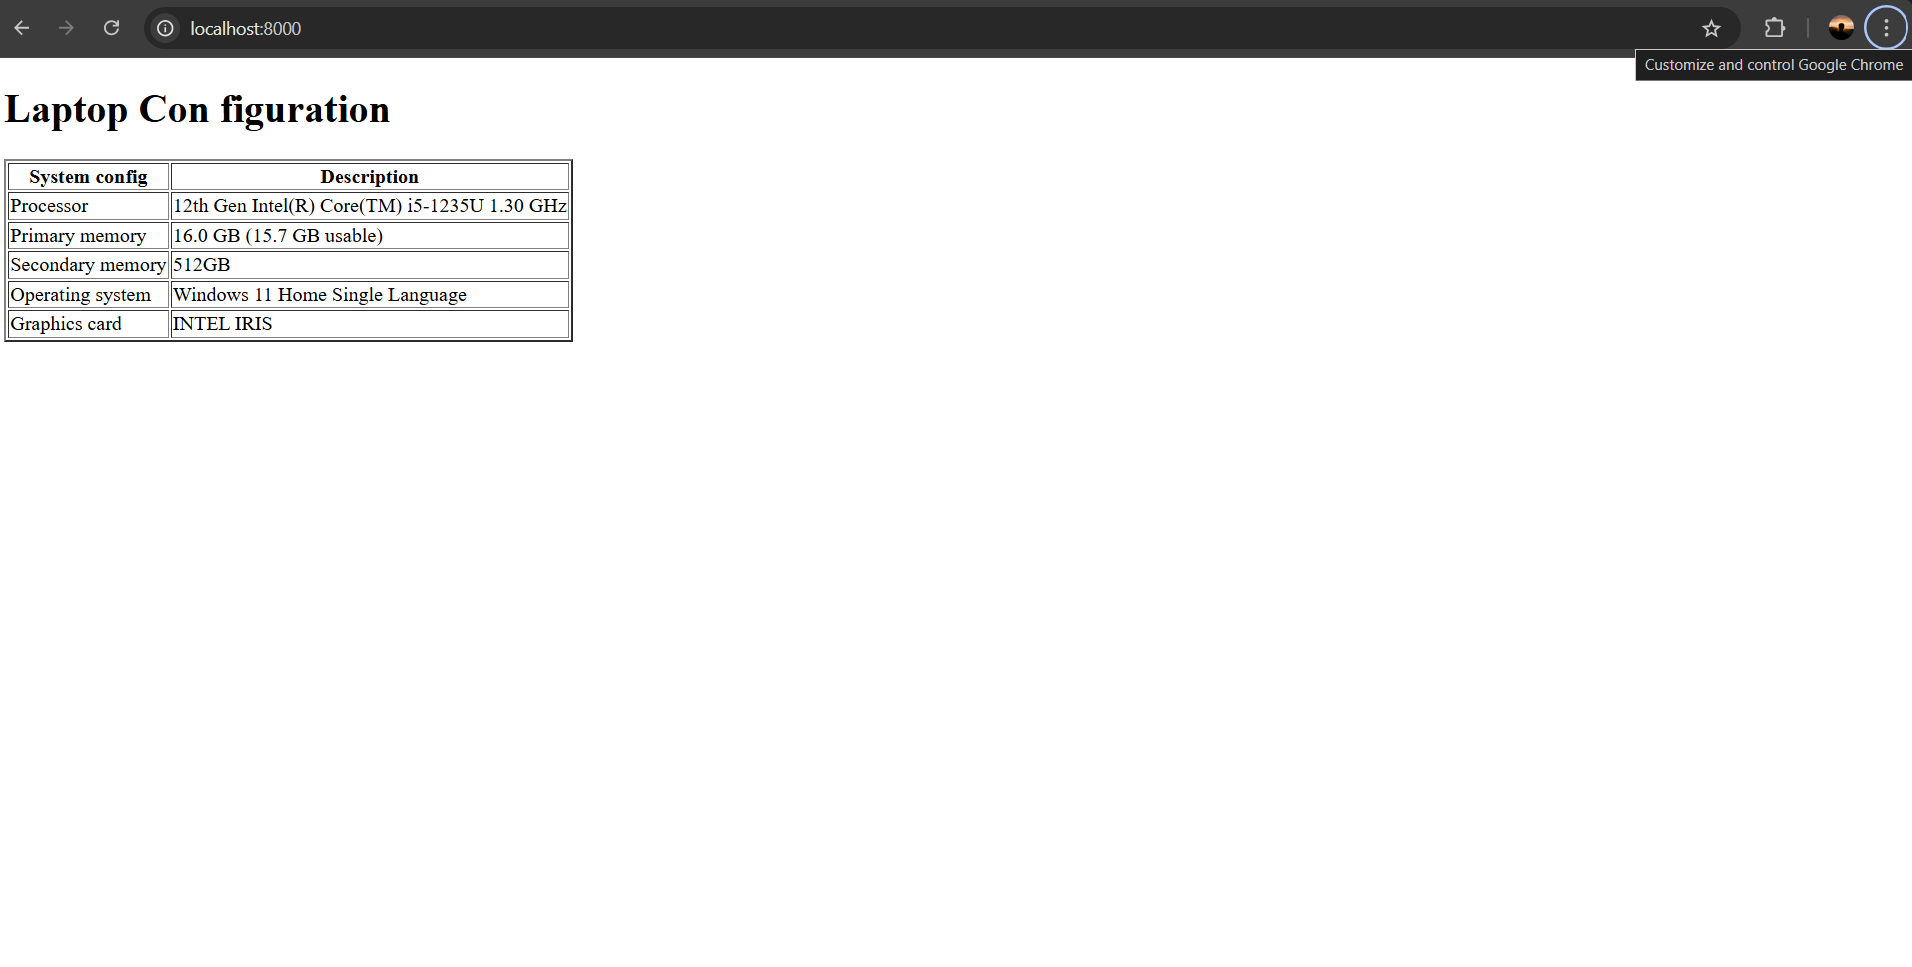
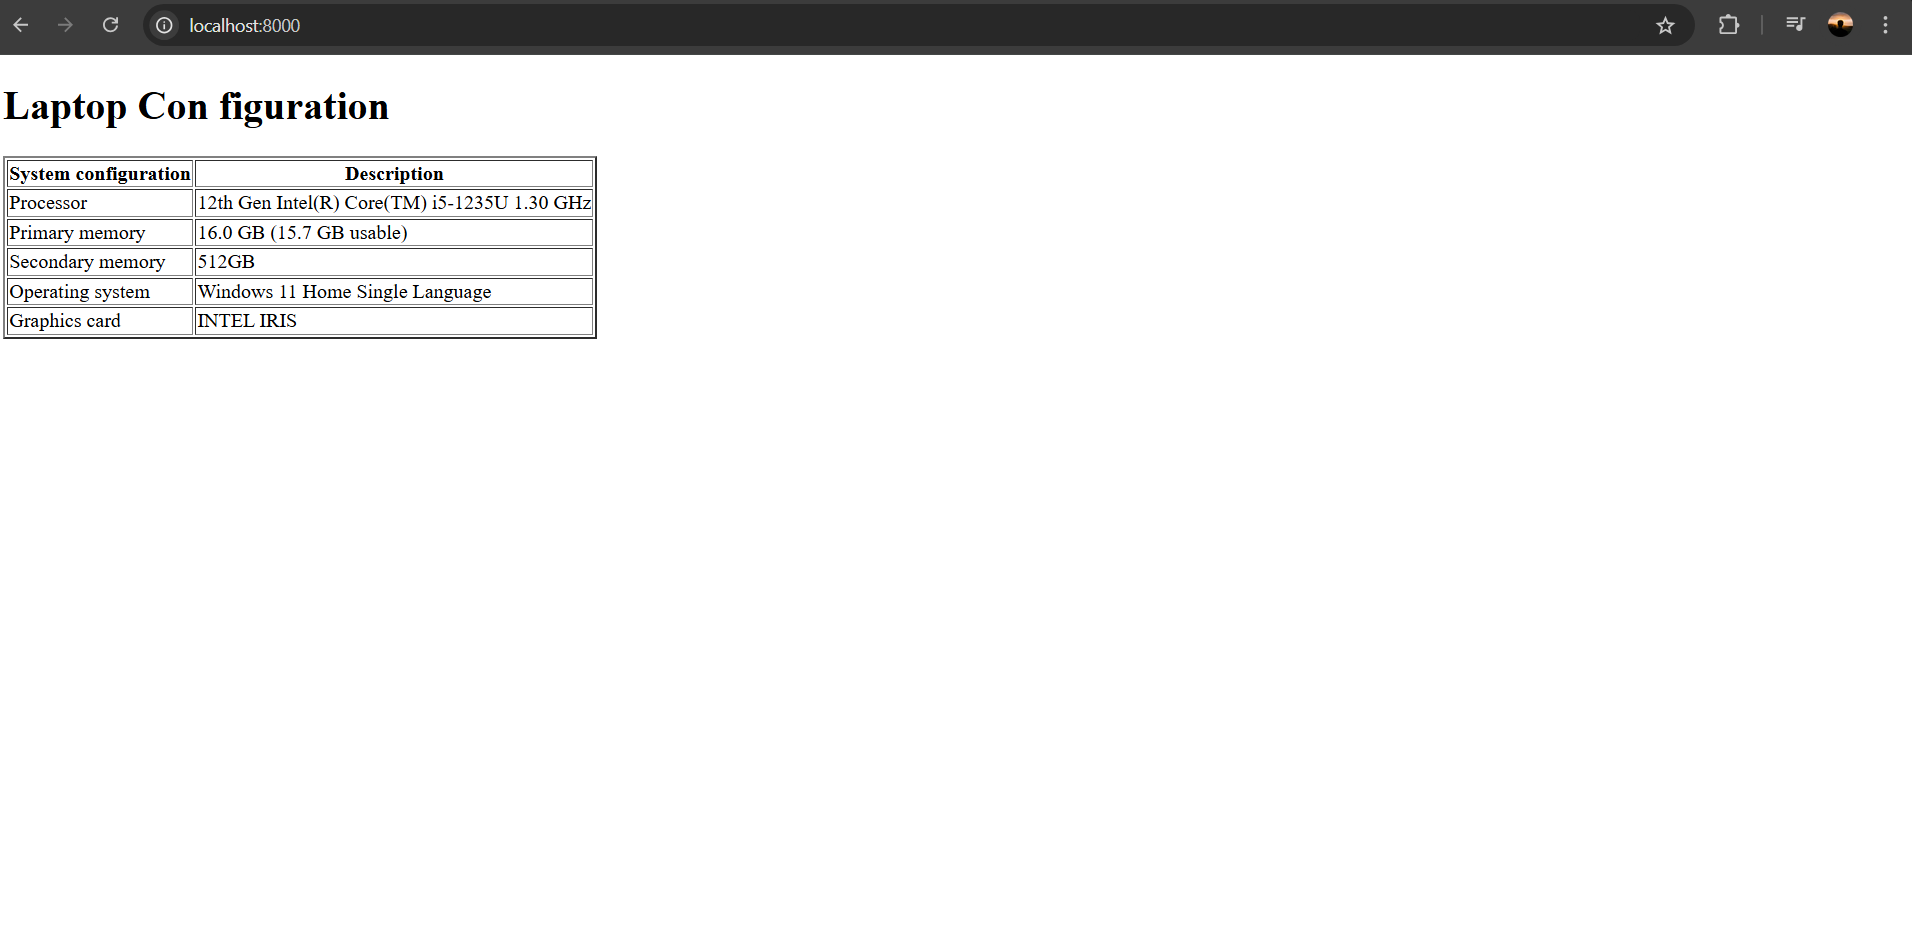
Success

Changed region(s): [[0.0, 0.0919, 0.3086, 0.3675], [0.8332, 0.0, 1.0, 0.0919], [0.0309, 0.0, 0.1543, 0.0612]]

diff --git a/laptopconfig.html b/laptopconfig.html
@@ -7,7 +7,7 @@
 <h1>Laptop Configuration</h1>
 <table border="2px">
     <tr>
-        <th>System config</th>
+        <th>System Configuration</th>
         <th>Description</th>
     </tr>
     <tr>

diff --git a/web.py b/web.py
@@ -10,7 +10,7 @@ content='''
 <h1>Laptop Con figuration</h1>
 <table border="2px">
     <tr>
-        <th>System config</th>
+        <th>System configuration</th>
         <th>Description</th>
     </tr>
     <tr>

diff --git a/README.md b/README.md
@@ -34,7 +34,7 @@ content='''
 <h1>Laptop Con figuration</h1>
 <table border="2px">
     <tr>
-        <th>System config</th>
+        <th>System configuration</th>
         <th>Description</th>
     </tr>
     <tr>
